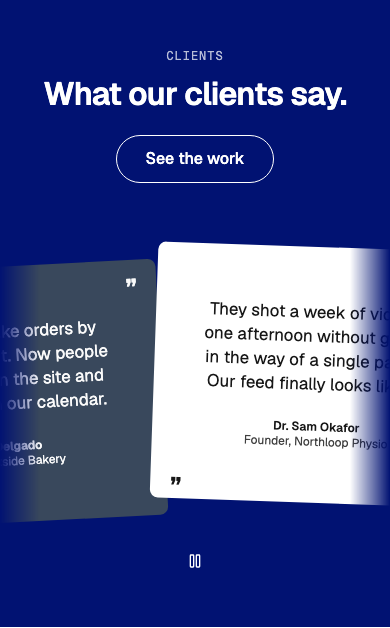
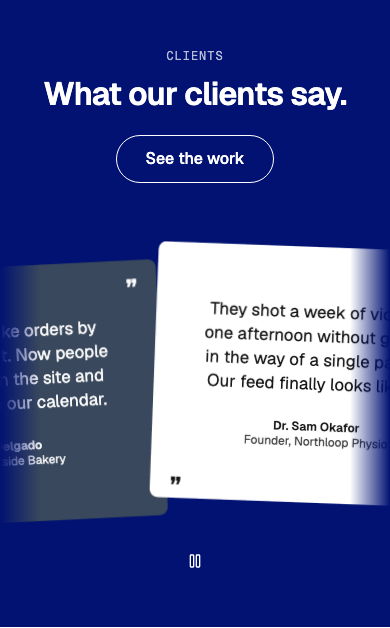
Testimonial — Tilted Cards (Randy, 2026-10-29): a drag stays where it's let go (no snap); cards lean the way the row moves and ease upright (WMDS --carousel-velocity)

diff --git a/patterns/testimonial/tilted-cards/TestimonialTiltedCards.tsx b/patterns/testimonial/tilted-cards/TestimonialTiltedCards.tsx
@@ -5,7 +5,8 @@
  * holds the quote, centred between two quotation marks, and a small byline. No photos.
  *
  * Motion: the row repeats seamlessly (WMDS Carousel `loop`) and drifts slowly one way (`autoplay`). It holds on
- * hover and focus, has a Pause button, and doesn't move under reduced motion. A hand badge follows a mouse over the row (Carousel `cursor`).
+ * hover and focus, has a Pause button, and doesn't move under reduced motion. A drag stays where it's let go (no
+ * snap), and the cards lean the way the row moves (`--carousel-velocity`), then ease upright. A hand badge follows a mouse over the row (Carousel `cursor`).
  */
 import { useId, type ReactNode } from "react";
 import { Band, Card, Carousel, cn, type BandTone, type CardTone } from "@thewhatmatters/wmds";
@@ -60,6 +61,11 @@ const lays = [
 ] as const;
 /** Room above and below for the tilt and lift; the card runs 12px past its slot each side, so neighbours overlap a little. */
 const itemInnerClasses = "h-full -mx-3 py-8";
+/**
+ * The lean: while the row moves, each card tips toward the way it's going (WMDS Carousel's
+ * `--carousel-velocity`, -1 to 1), up to 8°, and eases back upright when it stops. 0 under reduced motion.
+ */
+const leanClasses = "h-full rotate-[calc(var(--carousel-velocity,0)*8deg)] transition-[rotate] duration-medium ease-out";
 /** The card: WMDS Card with its own tone; quote and byline centred between the two marks. */
 const cardClasses = "relative h-full min-h-64 items-center justify-center px-8 py-12 text-center md:px-10";
 /** Quotation marks in two corners, top right and bottom left: decorative (the blockquote carries the meaning). */
@@ -125,12 +131,14 @@ export function TestimonialTiltedCards({
             bleed
             itemWidth={{ base: 85, md: 46, lg: 30 }}
             loop
+            snap={false}
             autoplay={autoplay}
             cursor={cursor ?? undefined}
           >
             {quotes.map((item, index) => (
               <Carousel.Item key={index}>
                 <div className={itemInnerClasses}>
+                  <div className={leanClasses}>
                   <Card
                     as="article"
                     tone={cardTones[index % 2]}
@@ -153,6 +161,7 @@ export function TestimonialTiltedCards({
                       &rdquo;
                     </span>
                   </Card>
+                  </div>
                 </div>
               </Carousel.Item>
             ))}

diff --git a/patterns/testimonial/tilted-cards/README.md b/patterns/testimonial/tilted-cards/README.md
@@ -47,6 +47,8 @@ import { TestimonialTiltedCards } from "./TestimonialTiltedCards";
 
 - **The row** is WMDS `Carousel` (`bleed`, `loop`): the quotes repeat seamlessly, so the row never ends (Randy 2026-10-29). Drag, trackpad, touch and keyboard from WMDS, named by the heading; no scrubber, since a loop has no end. Cards are 85% of the row on phones, 46% on tablet, 30% on desktop.
 - **Drift** (`autoplay`): about 24px a second, one way, wrapping invisibly. It holds on hover, on focus inside the row, during a drag, off screen and in a hidden tab; a Pause / Play button sits under the row (WCAG 2.2.2: anything that moves on its own for more than 5 seconds needs a way to stop it); it never moves under reduced motion.
+- **Drag:** the row stays where it's let go (no snap), and keeps a little momentum.
+- **Lean:** while the row moves, the cards tip toward the way it's going (up to 8°, from WMDS Carousel's `--carousel-velocity`) and ease back upright when it stops. None under reduced motion.
 - **Cursor:** a hand badge follows a mouse over the row (devices with a fine pointer that can hover only); decorative.
 - **Each quote** is an `article` card with a `figure`, `blockquote` and `figcaption` (name, role). The two quotation marks are decorative (`aria-hidden`).
 - **Centred on phones** (Headings H8): the heading holds 1 line at 390 and each quote is short, so both stay centred (measured 2026-10-29).
@@ -73,7 +75,7 @@ Full width; WMDS Band `md` spacing (48 top and bottom); eyebrow→heading 12; he
 
 ## WMDS
 
-**Needs @thewhatmatters/wmds 0.4.33** (Card `tone`, Carousel `autoplay`, `loop` and `cursor`, built for this pattern on the WMDS branch `lead-engineer/card-tones-carousel-motion`); bump the pin when it publishes. Uses `Band`, `Card`, `Carousel`; the example adds `Button`.
+**Needs @thewhatmatters/wmds 0.4.33** (Card `tone`, Carousel `autoplay`, `loop`, `cursor` and `--carousel-velocity`, built for this pattern on the WMDS branch `lead-engineer/card-tones-carousel-motion`); bump the pin when it publishes. Uses `Band`, `Card`, `Carousel`; the example adds `Button`.
 
 - **Card tones: built.** WMDS 0.4.33 adds Card `tone` (`inverse`, `field`, `light`) and a scoped light palette (`[data-theme="light"]`), so a paper card sits on a dark band.
 - **WMDS-GAP: no quote part.** There's no WMDS `Quote` / testimonial atom (marks, quote, attribution), so the pattern composes `figure` + `blockquote` + `figcaption`. Worth a WMDS part if a second testimonial pattern needs the same.
